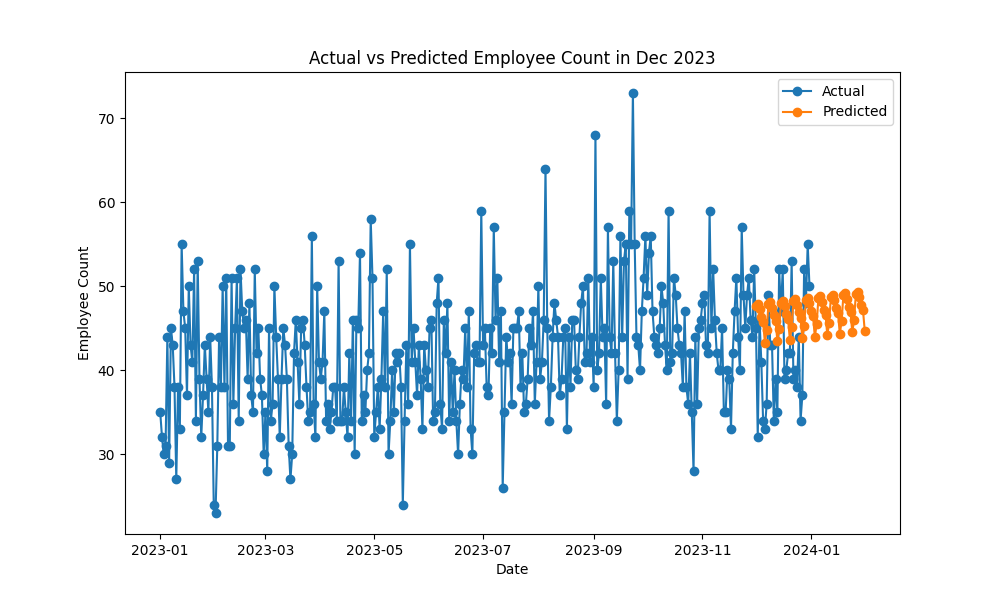
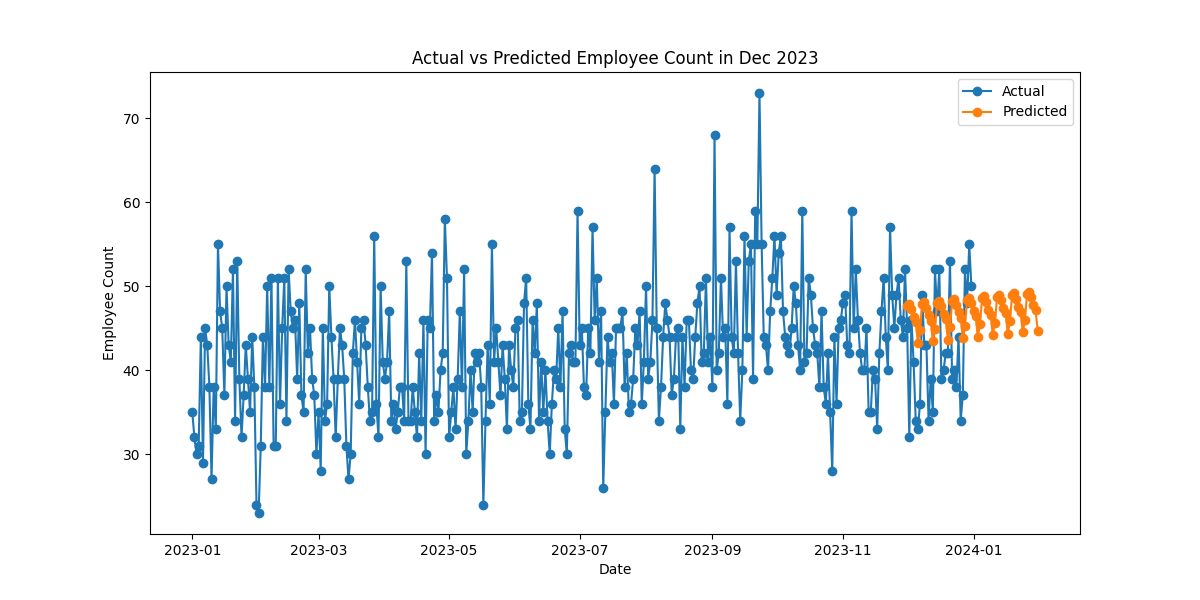
Feature adding to dashboard

diff --git a/templates/index2.html b/templates/index2.html
@@ -1,4 +1,3 @@
-<!-- this one for xg -->
 <!DOCTYPE html>
 <html lang="en">
 
@@ -10,12 +9,26 @@
         .plot-container {
             float: left;
             width: 70%;
- 
         }
 
         .export-container {
             float: right;
             width: 30%;
+        }
+
+        table {
+            border-collapse: collapse;
+            width: 100%;
+        }
+
+        th, td {
+            border: 1px solid black;
+            padding: 8px;
+            text-align: left;
+        }
+
+        th {
+            background-color: #f2f2f2;
         }
     </style>
 </head>
@@ -34,7 +47,7 @@
 
     {% if plot_exists %}
     <div class="plot-container">
-        <h2>Prediction Plot:XGBoost</h2>
+        <h2>Prediction Plot: XGBoost</h2>
         <img src="{{ url_for('static', filename='prediction_xgplot.png') }}" alt="Prediction Plot">
     </div>
     <div class="export-container">
@@ -45,6 +58,24 @@
             <button type="submit">Export</button>
         </form>
     </div>
+    <div>
+        <table>
+            <tr>
+                <th>Date</th>
+                <th>Employee Count</th>
+            </tr>
+            {% for date, count in future_predicted_january_employee_count.items() %}
+                {% if date >= tomorrow %}
+                    <tr>
+                        <td>{{ date.strftime('%Y-%m-%d') }}</td>
+                        <td>{{ count|round }}</td>
+                    </tr>
+                {% endif %}
+            {% endfor %}
+        </table>
+    </div>
+    
+    
     {% endif %}
 </body>
 

diff --git a/templates/dashboard.html b/templates/dashboard.html
@@ -18,7 +18,7 @@
             left: 0;
             width: 100%;
             height: 100%;
-            background-image: url('/static/bg7.jpg'); /* Adjust the path to your image */
+            background-image: url('/static/bg7.jpg'); 
             background-size: cover;
             background-repeat: no-repeat; 
             background-position: center;
@@ -39,7 +39,7 @@
             left: 0;
             width: 100%;
             height: 100%;
-            background-color: rgba(0, 0, 0, 0.7); /* Semi-transparent black overlay */
+            background-color: rgba(0, 0, 0, 0.7); 
             display: flex;
             flex-direction: column;
             justify-content: center;
@@ -62,7 +62,7 @@
             display: flex;
             justify-content: center;
             align-items: center;
-            margin-top: 20px; /* Add some top margin */
+            margin-top: 20px; 
         }
 
         button {
@@ -71,13 +71,13 @@
             cursor: pointer;
             border: none;
             border-radius: 5px;
-            background-color: #007bff; /* Blue background color, you can change it */
+            background-color: #007bff; 
             color: white;
-            margin: 0 10px; /* Add some horizontal margin */
+            margin: 0 10px; 
         }
 
         button:hover {
-            background-color: #0056b3; /* Darker blue color on hover, you can change it */
+            background-color: #0056b3; 
         }
     </style>
 </head>

diff --git a/fb.py b/fb.py
@@ -3,20 +3,23 @@ import pandas as pd
 from prophet import Prophet
 import matplotlib.pyplot as plt
 
-# Create a blueprint for Facebook Prophet functionalities
+
 fb_blueprint = Blueprint('fb', __name__)
 
+# Function to process uploaded CSV file
 def process_csv(file):
     df = pd.read_csv(file)
     df.rename(columns={'Date': 'ds', 'employee_count': 'y'}, inplace=True)
     return df
 
+# Function to split data into training and validation sets
 def split_train_test(data):
     data['ds'] = pd.to_datetime(data['ds'])
     train = data[data['ds'] <= '2023-11-30']
     valid = data[(data['ds'] > '2023-11-30') & (data['ds'] <= '2023-12-31')]
     return train, valid
 
+# Route for exporting files
 @fb_blueprint.route('/export', methods=['GET'])
 def export():
     document_name = request.args.get('document_name')
@@ -27,6 +30,7 @@ def export():
     except Exception as e:
         return str(e)
 
+# Route for uploading CSV file and making predictions with Prophet
 @fb_blueprint.route('/prophet/upload', methods=['POST'])
 def upload_file():
     if 'file' not in request.files:
@@ -36,15 +40,21 @@ def upload_file():
         return render_template('index.html', error="No selected file")
     if file:
         try:
+            # Process CSV file
             df = process_csv(file)
+            # Split data into training and validation sets
             train_data, valid_data = split_train_test(df)
+            # Initialize Prophet model and fit it with training data
             model = Prophet()
             model.fit(train_data)
+            # Create future dataframe for predictions
             future = pd.DataFrame({'ds': pd.date_range(start='12/1/2023', end='01/31/2024')})
+            # Make predictions
             prediction = model.predict(future)
             predicted = prediction[['ds', 'yhat']]
             actual = valid_data[['ds', 'y']]
-            plt.figure(figsize=(10, 6))
+            # Plot actual vs predicted values
+            plt.figure(figsize=(12, 6))
             plt.plot(df['ds'], df['y'], label='Actual', marker='o')
             plt.plot(predicted['ds'], predicted['yhat'], label='Predicted', marker='o')
             plt.xlabel('Date')
@@ -57,6 +67,7 @@ def upload_file():
         except Exception as e:
             return render_template('index.html', error=str(e))
 
+# Route for displaying the main page
 @fb_blueprint.route('/prophet', methods=['GET'])
 def index():
     return render_template('index.html', error=None, plot_exists=False)

diff --git a/xg.py b/xg.py
@@ -6,6 +6,7 @@ from sklearn.metrics import mean_squared_error
 import matplotlib.pyplot as plt
 import os
 import joblib
+from datetime import datetime, timedelta
 
 # Create a blueprint
 xg_blueprint = Blueprint('xg', __name__)
@@ -13,6 +14,7 @@ xg_blueprint = Blueprint('xg', __name__)
 # Define the global variables for model and X_test
 model = None
 X_test = None
+
 
 @xg_blueprint.route('/xgboost')
 def index():
@@ -59,7 +61,7 @@ def upload_file():
                 future_prediction = model.predict(future)
 
                 # Plotting
-                plt.figure(figsize=(18, 6))
+                plt.figure(figsize=(12, 6))
                 plt.plot(df.index, df['employee_count'].to_list(), label='Actual', marker='o')
                 plt.plot(X_test.index, predictions, label='Valid', marker='o')
                 plt.plot(future_data['Date'], future_prediction, label='Future', marker='o')
@@ -72,10 +74,16 @@ def upload_file():
                 plot_path = 'static/prediction_xgplot.png'
                 plt.savefig(plot_path)
                 plt.close()
-                prediction_df = pd.DataFrame({'Date': future_data['Date'], 'Employee Count': future_prediction})
+                prediction_df = pd.DataFrame({'Date': future_data['Date'], 'Employee Count': future_prediction.round()})
                 prediction_csv_path = 'xgprediction.csv'
-                prediction_df.to_csv(prediction_csv_path, index=False)                
-                return render_template('index2.html', plot_exists=True, plot_path=plot_path)
+                prediction_df.to_csv(prediction_csv_path, index=False)   
+
+                # Filter future predicted January data
+                future_predicted_january_data = prediction_df[prediction_df['Date'].dt.month == 2]
+                future_predicted_january_employee_count = future_predicted_january_data.set_index('Date')['Employee Count'].to_dict()
+
+                tomorrow = datetime.now() + timedelta(days=1)
+                return render_template('index2.html', plot_exists=True, plot_path=plot_path, future_predicted_january_employee_count=future_predicted_january_employee_count, tomorrow=tomorrow)
             except Exception as e:
                 return render_template('index2.html', error=str(e))
     return redirect(url_for('xg.index'))
@@ -99,3 +107,5 @@ def export():
     return redirect(url_for('xg.index'))
 
 
+if __name__ == "__main__":
+    app.run(debug=True)
